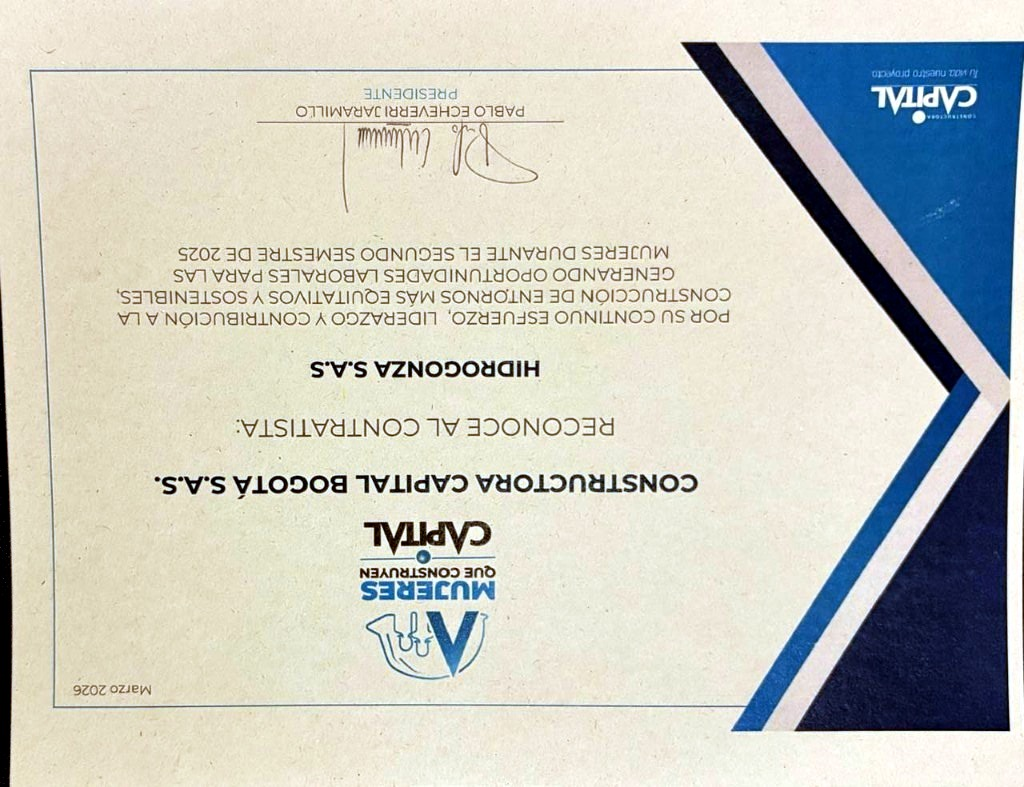
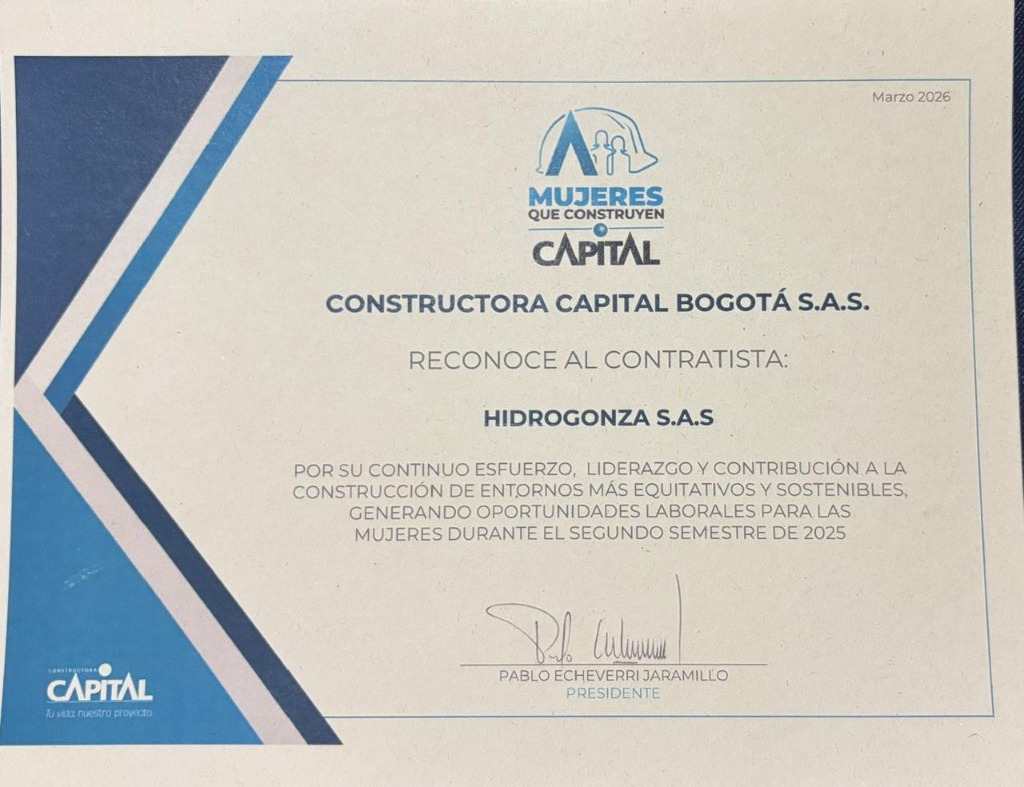
Enhance ExpandableImage component: Added layout prop for flexible image rendering, supporting both 'fill' and 'landscape' layouts. Updated RecognitionCardHorizontal to utilize the new layout feature for improved image presentation. Updated certificate image for better quality.

diff --git a/components/ExpandableImage.tsx b/components/ExpandableImage.tsx
@@ -20,6 +20,8 @@ type ExpandableImageProps = {
   fit?: "contain" | "cover";
   /** Modal sin caja blanca, solo imagen sobre fondo oscuro */
   lightboxTight?: boolean;
+  /** Certificados apaisados: ancho natural sin recuadro vertical */
+  layout?: "fill" | "landscape";
 };
 
 export function ExpandableImage({
@@ -34,6 +36,7 @@ export function ExpandableImage({
   imageRotate = 0,
   fit = "contain",
   lightboxTight = false,
+  layout = "fill",
 }: ExpandableImageProps) {
   const [open, setOpen] = useState(false);
   const rotateStyle = imageRotate ? { transform: `rotate(${imageRotate}deg)` } : undefined;
@@ -64,22 +67,35 @@ export function ExpandableImage({
         )}
         aria-label={`Ampliar imagen: ${alt}`}
       >
-        <div className={cn(aspectClassName, "flex items-center justify-center overflow-hidden")}>
-          <Image
+        {layout === "landscape" ? (
+          // eslint-disable-next-line @next/next/no-img-element
+          <img
             src={src}
             alt={alt}
-            fill
-            sizes={sizes}
-            priority={priority}
             style={rotateStyle}
             className={cn(
-              fit === "cover" ? "object-cover object-center" : "object-contain",
-              "transition-transform duration-300 group-hover:scale-[1.02]",
-              imageRotate !== 0 && "scale-[1.32]",
+              "h-auto w-full rounded-xl transition-transform duration-300 group-hover:scale-[1.01]",
               imageClassName
             )}
           />
-        </div>
+        ) : (
+          <div className={cn(aspectClassName, "flex items-center justify-center overflow-hidden")}>
+            <Image
+              src={src}
+              alt={alt}
+              fill
+              sizes={sizes}
+              priority={priority}
+              style={rotateStyle}
+              className={cn(
+                fit === "cover" ? "object-cover object-center" : "object-contain",
+                "transition-transform duration-300 group-hover:scale-[1.02]",
+                imageRotate !== 0 && "scale-[1.32]",
+                imageClassName
+              )}
+            />
+          </div>
+        )}
         <span className="absolute inset-0 flex items-center justify-center bg-[#0a192f]/0 transition-colors duration-300 group-hover:bg-[#0a192f]/25">
           <span className="flex translate-y-2 items-center gap-2 rounded-full bg-white/95 px-3 py-1.5 text-xs font-semibold text-[#0a192f] opacity-0 shadow-md transition-all duration-300 group-hover:translate-y-0 group-hover:opacity-100">
             <ZoomIn className="h-4 w-4 text-primary" />

diff --git a/components/RecognitionCardHorizontal.tsx b/components/RecognitionCardHorizontal.tsx
@@ -28,12 +28,9 @@ export function RecognitionCardHorizontal({ item, className, variants }: Recogni
           src={item.image}
           alt={item.alt}
           caption={`${item.title} (${item.year})`}
-          sizes="(max-width: 1024px) 100vw, 900px"
           priority={item.id === "mujeres-capital-certificado-2025"}
-          imageRotate={item.imageRotate}
-          fit="contain"
+          layout="landscape"
           lightboxTight
-          aspectClassName="relative aspect-[16/10] w-full overflow-hidden rounded-xl"
           className="rounded-xl"
         />
         <span className="pointer-events-none absolute left-4 top-4 z-10 rounded-full bg-primary px-3 py-1 text-xs font-bold text-white shadow sm:left-5 sm:top-5">
